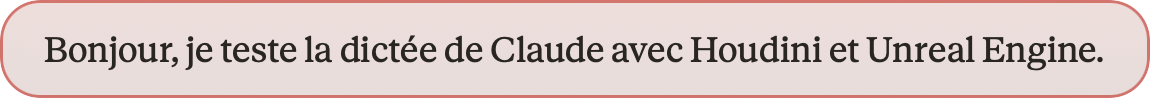
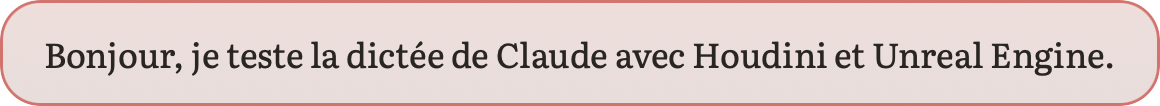
feat(typography): Adobe Clean as core font, GT Ultra for numbers in text module (v3.17)

diff --git a/Sources/ZenRayDictate/ClaudeOverlay.swift b/Sources/ZenRayDictate/ClaudeOverlay.swift
@@ -38,10 +38,9 @@ final class ClaudeOverlay {
         static let clayDeep = NSColor(srgbRed: 184/255, green: 92/255, blue: 62/255, alpha: 1)
         static let ink = NSColor(srgbRed: 42/255, green: 38/255, blue: 34/255, alpha: 1)
         static let muted = NSColor(srgbRed: 124/255, green: 115/255, blue: 104/255, alpha: 1)
-        // 26 October 2026: default fonts. Titles and every number = GT Ultra Regular, read text = Literata, the rest of the UI = GT Standard L.
-        // The earlier drawings (GT Sectra, Anthropic Serif, Inter) stay valid alternatives: change these four names only.
-        // FR : polices par défaut ; titres et nombres en GT Ultra, texte reçu en Literata, reste de l'interface en GT Standard L.
-        static let titleFont = "GTUltra-Regular", textFont = "Literata-Regular", uiFont = "GTStandard-LRegular", numberFont = "GTUltra-Regular"
+        // 5 November 2026: default fonts. Core font = Adobe Clean. Text received = Adobe Clean with numbers in GT Ultra Regular; titles and numbers/timer = GT Ultra Regular; UI = Adobe Clean.
+        // FR : polices par défaut ; police core = Adobe Clean, texte reçu en Adobe Clean avec nombres en GT Ultra, titres et timer en GT Ultra, UI en Adobe Clean.
+        static let titleFont = "GTUltra-Regular", textFont = "AdobeClean-Regular", uiFont = "AdobeClean-Regular", numberFont = "GTUltra-Regular"
     }
 
     var onInsert: (() -> Void)?
@@ -219,9 +218,28 @@ final class ClaudeOverlay {
         for view in [titleLabel, textLabel, actions] as [NSView] { glass.addSubview(view) }
     }
 
+    /// Formats the dictated text module with Adobe Clean for letters and GT Ultra Regular for all numbers.
+    static func formattedText(_ text: String) -> NSAttributedString {
+        let baseFont = NSFont(name: Tokens.textFont, size: Tokens.textSize) ?? .systemFont(ofSize: Tokens.textSize)
+        let numFont = NSFont(name: Tokens.numberFont, size: Tokens.textSize) ?? .systemFont(ofSize: Tokens.textSize)
+        let attr = NSMutableAttributedString(string: text, attributes: [
+            .font: baseFont,
+            .foregroundColor: Tokens.ink
+        ])
+        if let regex = try? NSRegularExpression(pattern: "\\d+", options: []) {
+            let nsString = text as NSString
+            let matches = regex.matches(in: text, options: [], range: NSRange(location: 0, length: nsString.length))
+            for match in matches {
+                attr.addAttribute(.font, value: numFont, range: match.range)
+            }
+        }
+        return attr
+    }
+
     private func present(title: String, text: String, showCopy: Bool, showInsert: Bool, showRetry: Bool = false, animate: Bool = true) {
         tick?.invalidate(); tick = nil; stopPulse(); fadeOut(capsule)
-        titleLabel.stringValue = title; textLabel.stringValue = text
+        titleLabel.stringValue = title
+        textLabel.attributedStringValue = Self.formattedText(text)
         copyButton.setTitle(showCopy ? "Copié" : "Copier")
         actions.views[0].isHidden = !showCopy; actions.views[1].isHidden = !showInsert
         actions.views[2].isHidden = showRetry; actions.views[3].isHidden = !showRetry

diff --git a/Sources/ZenRayDictate/LibraryWindow.swift b/Sources/ZenRayDictate/LibraryWindow.swift
@@ -4,10 +4,11 @@ import SwiftUI
 import UniformTypeIdentifiers
 
 // 3 October 2026, 19:52 CEST: font families are defined once for the app library.
+// 5 November 2026: core font = Adobe Clean, numbers = GT Ultra.
 enum DictationTypography {
-    static let sans = "InterVariable"
+    static let sans = "AdobeClean-Regular"
     static let mono = "AnthropicMono"
-    static let numbers = "AnthropicSerif"
+    static let numbers = "GTUltra-Regular"
 }
 
 // 3 October 2026, 16:10 CEST: every mode, vocabulary rule and history operation is accessible in the app.

diff --git a/Sources/ZenRayDictate/ComposerWindowController.swift b/Sources/ZenRayDictate/ComposerWindowController.swift
@@ -345,7 +345,7 @@ private final class ComposerViewController: NSViewController {
         editor.isHorizontallyResizable = false
         editor.isVerticallyResizable = true
         editor.autoresizingMask = [.width]
-        editor.font = NSFont(name: "Inter", size: ComposerTokens.editorFontSize)
+        editor.font = NSFont(name: "AdobeClean-Regular", size: ComposerTokens.editorFontSize)
             ?? NSFont.systemFont(ofSize: ComposerTokens.editorFontSize)
         editor.textColor = .labelColor
         editor.insertionPointColor = .labelColor

diff --git a/Scripts/MakeSheet.py b/Scripts/MakeSheet.py
@@ -22,11 +22,11 @@ PARAMS = {
     'title': 'ZenRay Dictate',
     'subtitle': 'Dictée par la voix : Fn, parle, le texte arrive',
     'tag': 'harmonic-asr-8',
-    # 26 October 2026: default fonts = GT Ultra Regular (titles and numbers, free case, no tracking imposed), Literata (read text), GT Standard L (the rest of the UI).
+    # 5 November 2026: default fonts = GT Ultra Regular (titles and numbers), Adobe Clean (read text and UI).
     # Alternatives stay valid: set font_title to GT-Sectra-LCGV-Regular.otf, font_ui to InterVariable.ttf, etc.
     'font_title': '/Users/zenray/Library/Fonts/GT-Ultra-Standard-Regular.otf', 'title_case': 'none', 'title_track': 0.0,
-    'font_body': '/Users/zenray/Library/Fonts/Literata[opsz,wght].ttf', 'body_variation': 'Regular',
-    'font_ui': '/Users/zenray/Library/Fonts/GT-Standard-L-Standard-Regular.otf', 'ui_variation': None,
+    'font_body': '/Users/zenray/Library/Fonts/AdobeClean-Regular.otf', 'body_variation': None,
+    'font_ui': '/Users/zenray/Library/Fonts/AdobeClean-Regular.otf', 'ui_variation': None,
     'font_title_size': 100, 'font_subtitle_size': 38, 'font_label_size': 28, 'title_gap': 44,
     'margin': 90,
 }

diff --git a/README.md b/README.md
@@ -1,5 +1,9 @@
 ![ZenRay Dictate: the recording capsule on the right and the result card at the bottom, both in Claude orange](docs/ZenRayDictate-sheet.png)
 
+## 5 November 2026: Adobe Clean core font, GT Ultra numbers in text module (version 3.17)
+
+The core font of the interface becomes Adobe Clean (`AdobeClean-Regular`): received transcription text, Composer window editor, dictation library sans font, and UI labels. Titles and every number (the timer, the title of the presentation sheet, and any digit in the transcribed text card) remain set in GT Ultra Regular (`GTUltra-Regular`). In `ClaudeOverlay`, `formattedText(_:)` dynamically formats all numbers in GT Ultra Regular while retaining Adobe Clean for words and punctuation, ensuring optimal typographic contrast. `build.sh` packages the Adobe Clean font drawings (`AdobeClean-Regular.otf`, `Bold`, `Medium`) into `$APP/Contents/Resources/Fonts/`. (5 November 2026)
+
 ## 26 October 2026: GT Ultra, Literata and GT Standard L by default (version 3.16)
 
 The received text of the card is set in Literata. Titles and every number (the timer, the title of the presentation sheet) are set in GT Ultra Regular, free case and no imposed letter spacing; the rest of the interface (buttons, labels) is GT Standard L Regular. They are the default fonts; GT Sectra, Anthropic Serif and Inter stay valid alternatives. The four font names are `ClaudeOverlay.Tokens.titleFont`, `textFont`, `uiFont`, `numberFont`, and `build.sh` bundles the drawings. `Scripts/MakeSheet.py` carries the same choice in `PARAMS`. (26 October 2026)
